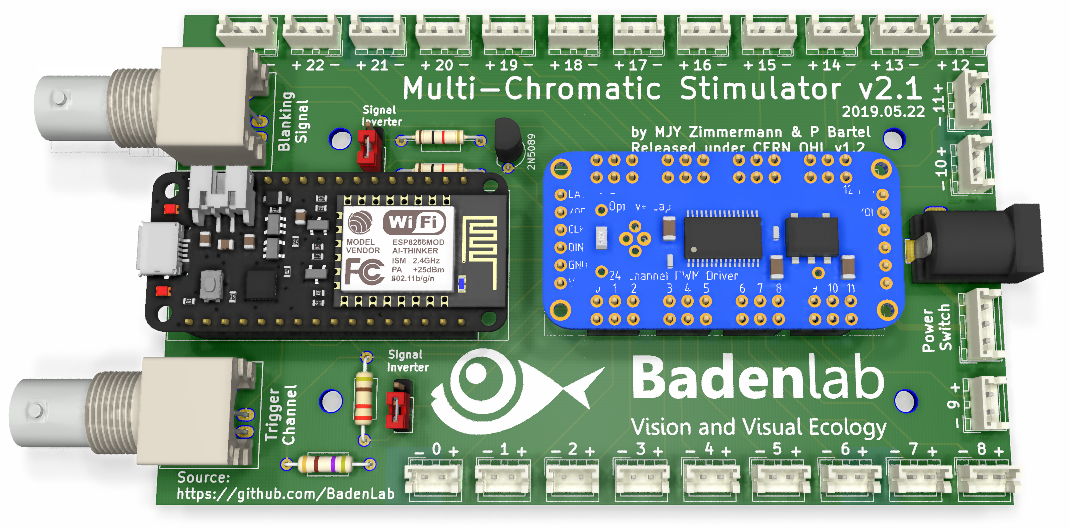
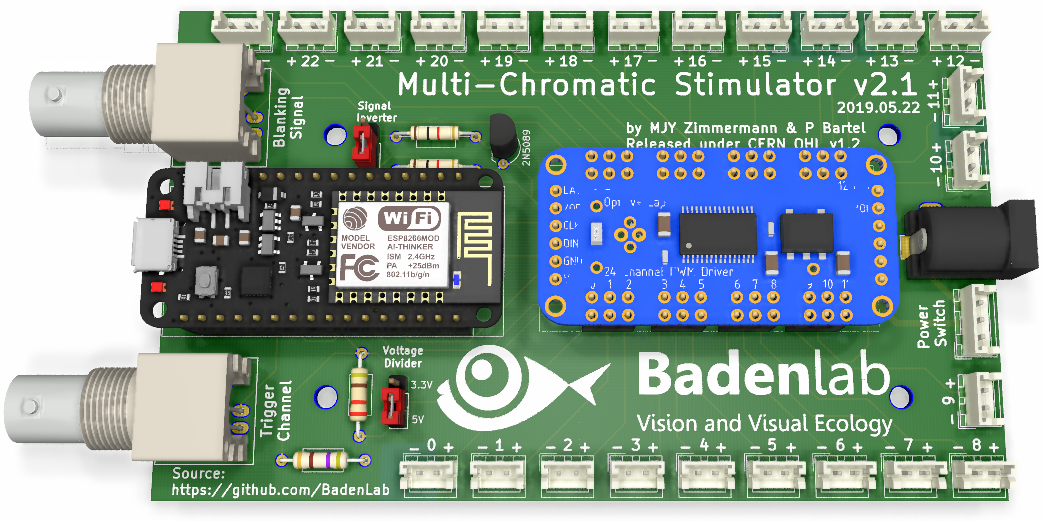
update

diff --git a/Instruction Manual/README.md b/Instruction Manual/README.md
@@ -6,11 +6,11 @@
 
 ## Overview
 
-<img align="right" width="600" height="475" src="https://github.com/MaxZimmer/Multi-Chromatic-Stimulator/blob/master/Images/Components.png">
+<img align="right" width="600" height="300" src="https://github.com/MaxZimmer/Multi-Chromatic-Stimulator/blob/master/Images/Stimulator.png">
 
 This document contains detailed assembly instructions, a software guideline to customize stimuli, and includes a parts list.
 
- The Arduino code and 3D printing files (SCAD and STL) can be downloaded [here](https://github.com/MaxZimmer/Multi-Chromatic-Stimulator/tree/master/3D%20Designs/Stimulator), and further modified to fit customise purposes. The aim of this device is to finely control LEDs used in combination with a 2-photon microscope.
+ The Arduino code and 3D printing files (SCAD and STL) can be downloaded [here](https://github.com/BadenLab/Tetra-Chromatic-Stimulator/tree/master/3D%20Designs), and further modified to fit customise purposes. The aim of this device is to finely control LEDs used in combination with a 2-photon microscope.
 
 The device consists of a custom-designed PCB, an [ESP32 development board](https://learn.adafruit.com/adafruit-huzzah32-esp32-feather) (or an Arduino Nano if the stimulator does not need to be combined with a 2 photon microscope), a [LED driver](https://learn.adafruit.com/tlc5947-tlc59711-pwm-led-driver-breakout/overview) and various off-the-shelf components.
 
@@ -25,13 +25,13 @@ The device consists of a custom-designed PCB, an [ESP32 development board](https
 
 ## Assembling the stimulator
 
-<img align="right" width="350" height="225" src="https://github.com/MaxZimmer/Multi-Chromatic-Stimulator/blob/master/Images/Scematics.png">
+<img align="right" width="350" height="225" src="https://github.com/MaxZimmer/Multi-Chromatic-Stimulator/blob/master/Images/Circuit%20Drawing.png">
 
 <p align="center"><h4 align="left">1 – Obtaining the custom-designed PCB</h4></p>
 
-From the GitHub repository, one can find the [gerber.zip folder](https://github.com/MaxZimmer/Multi-Chromatic-Stimulator/tree/master/PCB/Stimulator) needed to order the PCB to any manufacturer company (i.e. https://jlcpcb.com).
+From the GitHub repository, one can find the [gerber.zip folder](https://github.com/BadenLab/Tetra-Chromatic-Stimulator/tree/master/PCB/Stimulator) needed to order the PCB to any manufacturer company (i.e. https://jlcpcb.com).
 
-Ordering a minimum of 5 units should not cost more than £10. Gerber files were designed with [KiCad 5.0](http://kicad-pcb.org/).
+Ordering a minimum of five units should not cost more than £10. Gerber files were designed with [KiCad 5.0](http://kicad-pcb.org/).
 
 
 Schematics and PCB footprint can be downloaded and modified from the same repository if need be.
@@ -40,13 +40,13 @@ Schematics and PCB footprint can be downloaded and modified from the same reposi
 ****
 
 <p align="center"><h4 align="left">2 – Soldering the custom-designed PCB</h4></p>
-<img align="left" width="375" height="225" src="https://github.com/MaxZimmer/Multi-Chromatic-Stimulator/blob/master/Images/PCB01.png">
+<img align="left" width="375" height="225" src="https://github.com/MaxZimmer/Multi-Chromatic-Stimulator/blob/master/Images/Board.png">
 
-The board is self-explanatory. On the left, two options are available, one for the Arduino (close rows) the other for the ESP (spread rows). There is no need to solder more JST pins that the number of LED required for the desired stimulator. The two resistors at the bottom are a voltage divider for the ESP32 only (There’s no need to solder any resistor here if the Arduino option is chosen).
+The board is self-explanatory. On the left, two options are available, one for the Arduino (close rows) the other for the ESP (spread rows). There is no need to solder more JST pins that the number of LED required for the desired stimulator.
 
-ESP32 unlike Arduino Nano, works on a 3.3V logic; no higher tension should be sent to this board. Since most TTL deliver 5V pulses, we selected a 220/470Ω divider to bring a 5V blanking signal into a 3.3V input. Depending on the blanking signal generator used, this divider can be modified to fit one’s personal design or bypassed by only bridging the 220Ω resistor.
+The jumper on the top (Signal Inverter) allows the inversion of the TTL "Blanking" signals. For ScanImage users, the jumper should be placed at the upper position.
 
-(Supplementary Figure S3 TESSA PICTURE)
+The jumper at the bottom of the board (Voltage Divider) allows to tune down the voltage from 5 to 3.3V if the ESP is used instead of an Arduino. ESP32 unlike Arduino Nano, works on a 3.3V logic; no higher tension should be sent to this board. Since most TTL deliver 5V pulses, we selected a 220/470Ω divider to bring a 5V blanking signal into a 3.3V input. Depending on the blanking signal generator used, this divider can be modified to fit one’s personal design or bypassed by only bridging the 220Ω resistor.
 
 <img align="right" width="500" height="200" src="https://github.com/MaxZimmer/Multi-Chromatic-Stimulator/blob/master/Images/reference%20resistor%20vs%20output%20current.png">
 
@@ -57,9 +57,9 @@ The Adafruit TLC5947 LED driver is a constant current driver configured by defau
 ****
 
 <p align="center"><h4 align="left">3 – Mounting the potentiometer</h4></p>
-<img align="right" width="300" height="192" src="https://github.com/MaxZimmer/Multi-Chromatic-Stimulator/blob/master/Images/Potentiometer%20PCB.png">
+<img align="right" width="200" src="https://github.com/MaxZimmer/Multi-Chromatic-Stimulator/blob/master/Images/Potentiometer%20PCB.png">
 
-In order to finely adjust each LED power, we added multiple-turn trimmer potentiometers to our design. A simple solution is to manufacture the appropriate PCB board (We provide multiple options on the [GitHub repository](https://github.com/MaxZimmer/Multi-Chromatic-Stimulator/tree/master/PCB/Potentiometer%20Mounts)).
+In order to finely adjust each LED power, we added multiple-turn trimmer potentiometers to our design. A simple solution is to manufacture the appropriate PCB board (We provide multiple options on the [GitHub repository](https://github.com/BadenLab/Tetra-Chromatic-Stimulator/tree/master/PCB/Potentiometer%20Mounts)).
 
 Otherwise, one can make its own little PCB by using a solderable board.
 Each potentiometer connects its ClockWise (pin 3) to the LED (+) stimulator JST pin; and its Base (pin 2) to the LED (+) leg. The LED (-) stimulator JST pin connects the LED (-) leg directly.
@@ -69,9 +69,9 @@ Each potentiometer connects its ClockWise (pin 3) to the LED (+) stimulator JST 
 <p align="center"><h4 align="left">4 – Printing the Stimulator box</h4></p>
 <img align="left" width="300" height="250" src="https://github.com/MaxZimmer/Multi-Chromatic-Stimulator/blob/master/Images/Box.png">
 
-[STL files](https://github.com/MaxZimmer/Multi-Chromatic-Stimulator/tree/master/3D%20Designs/Stimulator/STL%20Files) can be found on the GitHub repository and print directly if the user wishes to go for the default design (4 stimulation LEDs + 4 proxy LEDs) and [BoM](https://github.com/MaxZimmer/Multi-Chromatic-Stimulator/blob/master/Bills%20of%20Materials/BOM%20-%20Stimulator.ods).
+[STL files](https://github.com/BadenLab/Tetra-Chromatic-Stimulator/tree/master/3D%20Designs/Stimulator/STL%20Files) can be found on the GitHub repository and print directly if the user wishes to go for the default design (4 stimulation LEDs + 4 proxy LEDs) and [BoM](https://github.com/BadenLab/Tetra-Chromatic-Stimulator/blob/master/Bills%20of%20Materials/BOM%20-%20Stimulator.ods).
 
-However, [SCAD files](https://github.com/MaxZimmer/Multi-Chromatic-Stimulator/blob/master/3D%20Designs/Optical%20Components/Optical%20Components.scad) are also available and easily adjustable for personalised design.
+However, [SCAD files](https://github.com/BadenLab/Tetra-Chromatic-Stimulator/blob/master/3D%20Designs/Stimulator/MultiChromatic%20Stimulator%20v2.1.scad) are also available and easily adjustable for personalised design.
 
 We used [OpenSCAD](www.openscad.com) to design the stimulator box. The tolerance of the printer can be adjusted in the “USER Parameters” section of the script (tol =0.1; by default, this value is used for Prusa MK3 and Ultimaker 2). Each component can be displayed/design individually in the “Switches” section. Variables such as LED number (4 by default) and the potentiometer board dimensions can be adjusted in the “Component Parameters” section.
 
@@ -84,11 +84,7 @@ All part should fit tightly together and are maintained together by 4 M3*50mm so
 <p align="center"><h4 align="left">5 – Adjusting the proxy LED</h4></p>
 The proxy LED are markers for the experimenter to have a ready visualisation of the stimulus being displayed under the objective. If this option is selected, 3mm LEDs are to be mounted at the back of the LED holder using 3mm LED mounts.
 
-(Tessa picture)
-
 Finally, any translucid material could be placed in the LED holder slot in order to diffuse the proxy LED light (In our example, we used a piece of thin Teflon)
-
-(TESSA PICTURE OF THE LED HOLDER Supplementary Figure S7)
 
 ***
 
@@ -101,9 +97,7 @@ The trigger channel is an output signal generated by the stimulator that by defa
 
 Finally, the board is connected to a computer via micro USB cable (for ESP32, mini USB for Arduino Nano), and ready to be used.
 
-(Final picture)
-
-(Experiment Picture)
+<img align="center" src="https://github.com/MaxZimmer/Multi-Chromatic-Stimulator/blob/master/Images/Schematics.png" width="1000"/>
 
 ***
 
@@ -118,7 +112,7 @@ Follow the installation instructions from the [Espressif repository](https://git
 
 3-	Install the TLC5947 library:	Start Arduino and from the “Sketch” tab, select “Include Library” and open “ Manage Libraries”.	From the search bar enter “TLC5947”. Select and Install the library
 
-4-	Close Arduino and open the Multi-Chromatic-Stimulator arduino file from the [Arduino Code folder](https://github.com/MaxZimmer/Multi-Chromatic-Stimulator/tree/master/Arduino%20code/2-Photon_Mutli_Chromatic_Stimulator).
+4-	Close Arduino and open the Multi-Chromatic-Stimulator arduino file from the [Arduino Code folder](https://github.com/BadenLab/Tetra-Chromatic-Stimulator/tree/master/Arduino%20code/2-Photon_Mutli_Chromatic_Stimulator).
 
 
 5-	From the “Tools” tab: Select from “Boards” the “Adafruit ESP32 Feather”.	From “Upload Speed”, select 921600.	From “Flash Frequency”, select 80Hz. From “Port”, select the computer port to which the ESP is connected (if doubt, unplug, replug and observe the choices differences). If the ESP is not recognised, check the driver installation (2), then check the micro USB cable.
@@ -220,19 +214,20 @@ For the calibration, we suggest setting the max_LED# value at 4095 (Full power),
 
 For the visual stimulator, we used the [ThorLabs Compact CCD Spectrometer](https://www.thorlabs.com/newgrouppage9.cfm?objectgroup_ID=3482) CCS200/M in combination with the [ThorLabs OSA software](https://www.thorlabs.com/software_pages/ViewSoftwarePage.cfm?Code=OSA).
 We placed the spectrometer fiber patch cable at the sample position and played the calibration code on the stimulator. This calibration sequence plays each LED individually from 0 to 100% for 1 second and loops 5 times. This stimulus sequence is quite tedious so we encourage users to adapt it to their needs.
-Recordings were made using the inbuilt trigger mode of the spectrometer (connected to the stimulator trigger output). We used an integration time of 1 second and applied the inbuilt spectrum correction in the OSA software. Data was extracted as .csv files and analysed using our [iPython analysis script](https://github.com/MaxZimmer/Multi-Chromatic-Stimulator/blob/master/Spectrum%20Calibration/Measurement%20Analysis.ipynb).
+Recordings were made using the inbuilt trigger mode of the spectrometer (connected to the stimulator trigger output). We used an integration time of 1 second and applied the inbuilt spectrum correction in the OSA software. Data was extracted as .csv files and analysed using our [iPython analysis script](https://github.com/BadenLab/Tetra-Chromatic-Stimulator/blob/master/Instruction%20Manual/Stimulator%20Calibration/Stimulator_Calibration.ipynb).
 
 
-<img align="right" width="500" height="350" src="https://github.com/MaxZimmer/Multi-Chromatic-Stimulator/blob/master/Images/iPython%20Notebook/Slide2.png">
+<img align="right" width="500" height="350" src="https://github.com/BadenLab/Tetra-Chromatic-Stimulator/blob/master/Images/Notebook_01.png">
 
 For analysis purposes, we designed an [iPython notebook](https://jupyter.readthedocs.io/en/latest/install.html).
 In this script, one has to first modify the global parameters:
-  - Directory location: *os.chdir*
-  - Opsin maximum absorbance: *PeakWavelength* This array contains the peak asorbance for each opsin considered. For the zebrafish, we use the value defined by [Allison et al, 2004 - Visual pigment composition in Zebrafish](https://github.com/MaxZimmer/Multi-Chromatic-Stimulator/blob/master/References/Allison%202004%20-%20Visual%20pigment%20composition%20in%20zebrafish.pdf)
-  - Recording parameters: Number of loops, number of recording per loop, etc.
+  - Opsin maximum absorbance: *PeakWavelength* This array contains the peak asorbance for each opsin considered. For the zebrafish, we use the value defined by [Allison et al, 2004 - Visual pigment composition in Zebrafish](https://github.com/BadenLab/Tetra-Chromatic-Stimulator/blob/master/References/Allison%202004%20-%20Visual%20pigment%20composition%20in%20zebrafish.pdf)
+  - Number of LEDs to be considered
   - Figure parameters: Figure sizes, spectra range to considered, etc.
 
-<img align="left" width="650" height="325" src="https://github.com/MaxZimmer/Multi-Chromatic-Stimulator/blob/master/Images/iPython%20Notebook/Slide3.png">
+<img align="left" width="650" height="325" src="https://github.com/BadenLab/Tetra-Chromatic-Stimulator/blob/master/Instruction%20Manual/Stimulator%20Calibration/Filtered%20Spectrometer%20Recordings.png">
+
+.
 
 .
 
@@ -249,26 +244,28 @@ At this stage, one might retake measurements with the spectrometer with this new
 
 To establish the LEDs performance we then plotted their normalised intensities (LED relative brightness) against the PWM (*array_LED#*) used in the Arduino code to drive them. A Linear fit along with the Sum of Square Error (SSE), demonstrates that the TLC5947 LED driver controls the LED in an optimal linear manner.
 
-<img align="center" width="800" height="200" src="https://github.com/MaxZimmer/Multi-Chromatic-Stimulator/blob/master/Images/iPython%20Notebook/Slide4.png">
+<img align="center" width="800" height="200" src="https://github.com/BadenLab/Tetra-Chromatic-Stimulator/blob/master/Instruction%20Manual/Stimulator%20Calibration/Normalised%20Intensity%20VS%20Forward%20Current.png">
 
 ***
 
-We then used the absorbance spectrum fitting template for visual pigment defined by [Govardoskii et al, 2000 - In Search of Visual Pigment Template](https://github.com/MaxZimmer/Multi-Chromatic-Stimulator/blob/master/References/Govardovskii%202000%20-%20In%20search%20of%20the%20visual%20pigment%20template.pdf). Using the Opsin maximal absorbance defined earlier, this nomogram template describes the predicted shape of the absorbance spectra of all visual pigment. Here we obtained the following specra for the zebrafish cone photoreceptors that we plotted along the human visible spectrum as comparison.
+We then used the absorbance spectrum fitting template for visual pigment defined by [Govardoskii et al, 2000 - In Search of Visual Pigment Template](https://github.com/BadenLab/Tetra-Chromatic-Stimulator/blob/master/References/Govardovskii%202000%20-%20In%20search%20of%20the%20visual%20pigment%20template.pdf). Using the Opsin maximal absorbance defined earlier, this nomogram template describes the predicted shape of the absorbance spectra of all visual pigment. Here we obtained the following specra for the zebrafish cone photoreceptors that we plotted along the human visible spectrum as comparison.
 
-<img align="center" width="900" height="600" src="https://github.com/MaxZimmer/Multi-Chromatic-Stimulator/blob/master/Images/iPython%20Notebook/Slide5.png">
+<img align="center" width="900" height="600" src="https://github.com/BadenLab/Tetra-Chromatic-Stimulator/blob/master/Instruction%20Manual/Stimulator%20Calibration/Cone%20Absoprtion%20Spectra.png">
 
 ***
 
 Using the same display we plotted the LEDs spectra that we obtained from the spectrometer recordings.
 
-<img align="center" width="900" height="600" src="https://github.com/MaxZimmer/Multi-Chromatic-Stimulator/blob/master/Images/iPython%20Notebook/Slide6.png">
+Then, we plotted the LED spectra along the cone opsin absorbance, and each LED’s spectral cross-section with respective target conein solid colours. Grey boxes indicate the positions of the two PMT detector bands. The Red-LED’s long-wavelength emission spectrum was chosen to limit spectral overlap with the red-fluorescence detection channel. Any loss in excitation efficiency of the red opsin was compensated for by increasing this LED’s power accordingly.
+
+<img align="center" width="900" height="600" src="https://github.com/BadenLab/Tetra-Chromatic-Stimulator/blob/master/Instruction%20Manual/Stimulator%20Calibration/Opsin-LED%20Spectra.png">
+
 
 ***
 
-Finally we plotted the LED spectra along the cone opsin absorbance, and each LED’s spectral cross-section with respective target conein solid colours. Grey boxes indicate the positions of the two PMT detector bands. The Red-LED’s long-wavelength emission spectrum was chosen to limit spectral overlap with the red-fluorescence detection channel. Any loss in excitation efficiency of the red opsin was compensated for by increasing this LED’s power accordingly.
-
-<img align="center" width="900" height="600" src="https://github.com/MaxZimmer/Multi-Chromatic-Stimulator/blob/master/Images/iPython%20Notebook/Slide7.png">
-
+With the previous spectra, we estimate the relative co-excitation of photoreceptors by the LEDs:
+<img align="center" width="900" height="600" src="https://github.com/BadenLab/Tetra-Chromatic-Stimulator/blob/master/Instruction%20Manual/Stimulator%20Calibration/LED-Opsin%20Co-Excitation.png">
+<img align="center" width="900" height="600" src="https://github.com/BadenLab/Tetra-Chromatic-Stimulator/blob/master/Instruction%20Manual/Stimulator%20Calibration/Opsin-LED%20Co-Excitation.png">
 
 ***
 

diff --git a/README.md b/README.md
@@ -28,7 +28,7 @@ Here we describe an effective, low-cost, opensource LED stimulator, designed to 
 |
 ├───Arduino Code                              Stimulator Code
 |   ├───Stimulator Code                       - Adaptable C+ code for running the stimulator
-|   └───LED drive library                     - Library to run the TLC 5947
+|   └───LED driver library                     - Library to run the TLC 5947
 |
 ├───Bill of Materials                         List of necessary components and retailer suggestions
 |
